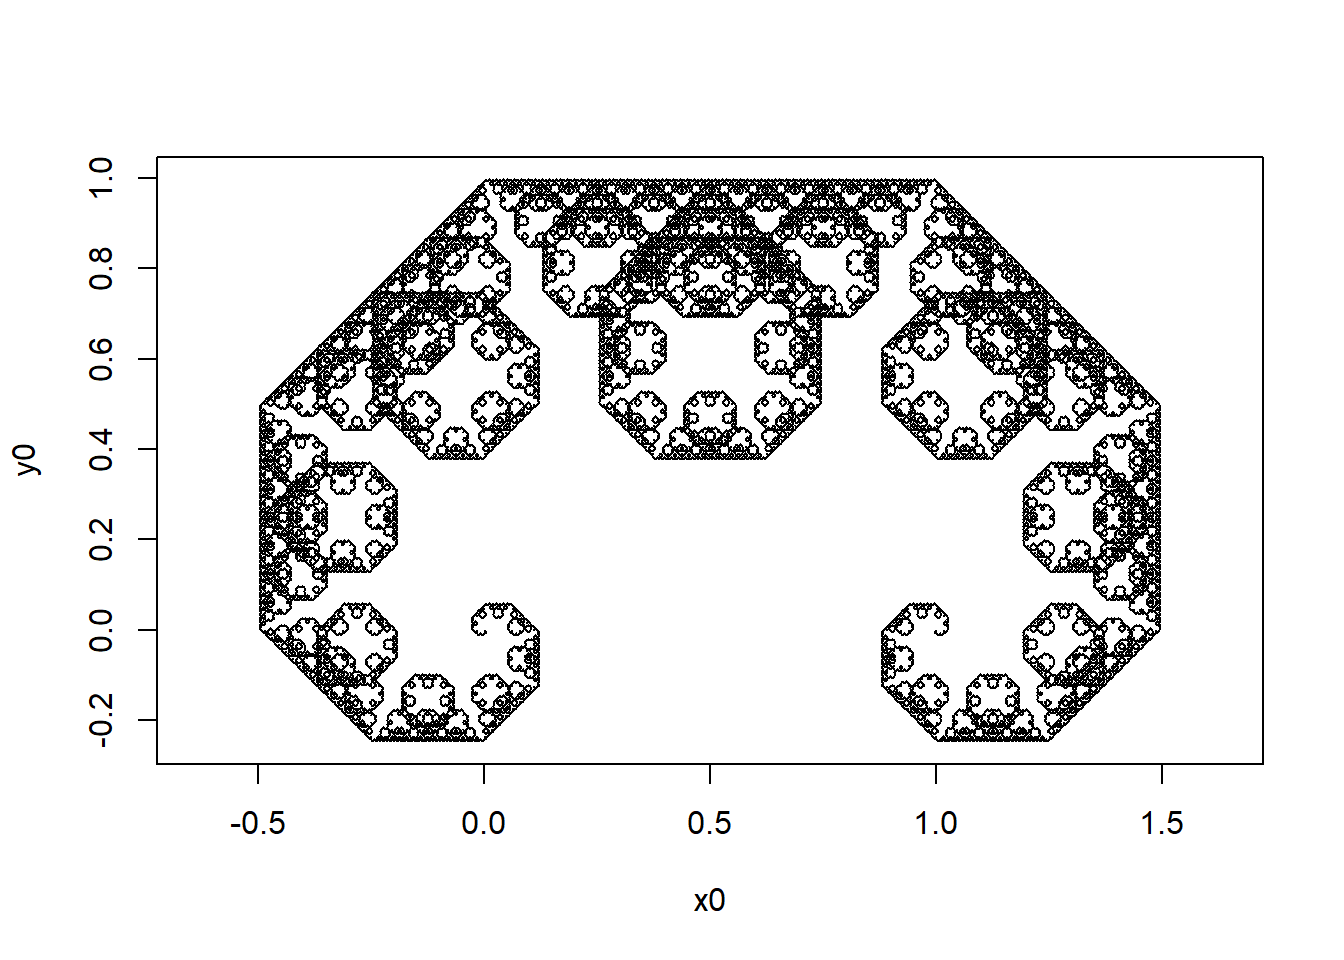
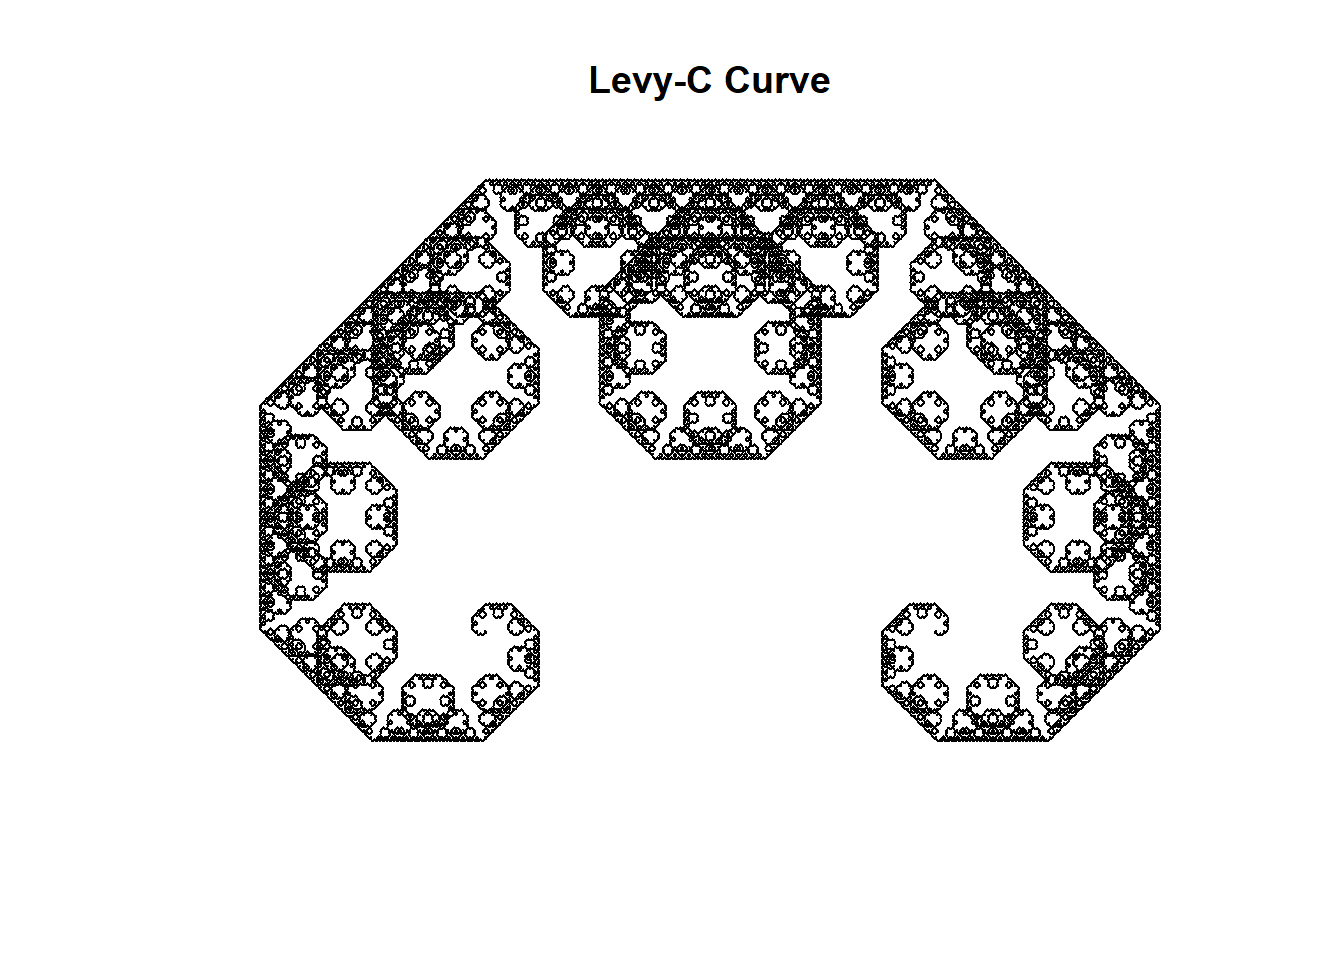
Expanded text and altered some headings

diff --git a/IFS_Fractals.html b/IFS_Fractals.html
@@ -7,7 +7,7 @@
 <meta name="viewport" content="width=device-width, initial-scale=1.0, user-scalable=yes">
 
 
-<title>Fractals</title>
+<title>Exploring Fractals: Part 1</title>
 <style>
 code{white-space: pre-wrap;}
 span.smallcaps{font-variant: small-caps;}
@@ -81,7 +81,7 @@ pre > code.sourceCode > span > a:first-child::before { text-decoration: underlin
 
 <header id="title-block-header" class="quarto-title-block default">
 <div class="quarto-title">
-<h1 class="title">Fractals</h1>
+<h1 class="title">Exploring Fractals: Part 1</h1>
 </div>
 
 
@@ -96,10 +96,15 @@ pre > code.sourceCode > span > a:first-child::before { text-decoration: underlin
 
 </header>
 
+<section id="introduction" class="level2">
+<h2 class="anchored" data-anchor-id="introduction">Introduction</h2>
+<p>I have long found fractals, a curve or figure where each part has the same character as the whole, to be an endlessly fascinating study. As I have been learning more of the R language, I decided to stretch my knowledge of R programming by creating varying fractal implementations in a Quarto notebook which are now shared here.</p>
+</section>
 <section id="barnsley-fern" class="level2">
 <h2 class="anchored" data-anchor-id="barnsley-fern">Barnsley Fern</h2>
-<p>From <a href="https://en.wikipedia.org/wiki/Barnsley_fern">Wikipedia</a>: The Barnsley fern is a fractal named after the British mathematician Michael Barnsley who first described it in his book <em>Fractals Everywhere</em>. The fern is a basic example of self-similar sets, a mathematical pattern that can be reproduced at any magnification and is also an example of an Iterated Function System.</p>
-<p>The fern uses four affine transformations, the formula for which is:</p>
+<p>Back around 2009 during my first year in undergraduate studies, I took a course on Python programming. Around the same time I encountered the Barnsley Fern in a textbook and thought to create a basic implementation of the fractal in Python. That code is long since gone, but the idea remained so the first fractal I chose to examine in this exploration was the same I explored during my early education.<br>
+From <a href="https://en.wikipedia.org/wiki/Barnsley_fern">Wikipedia</a>: The Barnsley fern is a fractal named after the British mathematician Michael Barnsley who first described it in his book <em>Fractals Everywhere</em>. The fern is a basic example of self-similar sets, a mathematical pattern that can be reproduced at any magnification. In addition, it is also an example of an <a href="https://en.wikipedia.org/wiki/Iterated_function_system">Iterated Function System</a> (IFS), a method of generating self-similar fractals popularized by Barnsley.</p>
+<p>The fern uses four <a href="https://en.wikipedia.org/wiki/Affine_transformation">affine transformations</a>, the formula for which is:</p>
 <p><span class="math display">\[
 f_w(x,y)=\left[\begin{array}{cc}
   a &amp; b \\
@@ -186,7 +191,7 @@ f_w(x,y)=\left[\begin{array}{cc}
 </table>
 </div>
 </div>
-<p>To plot 10,000 iterations were run and <code>ggplot2::geom_bin_2d</code> was used to bin the results and color the resulting simulation.</p>
+<p>To plot 100,000 iterations were run and <code>ggplot2::geom_bin_2d</code> was used to bin the results and color the resulting simulation.</p>
 <div class="cell">
 <details>
 <summary>Code</summary>
@@ -243,8 +248,8 @@ f_w(x,y)=\left[\begin{array}{cc}
 </section>
 <section id="binary-tree" class="level2">
 <h2 class="anchored" data-anchor-id="binary-tree">Binary Tree</h2>
-<p>An easy fractal to generate, the binary tree (or <a href="https://en.wikipedia.org/wiki/Fractal_canopy">fractal canopy</a>) is generated by: taking a line segment in as a matrix (first column x-coordinates, second y-coordinates), splits the end at plus and minus an angle, and grows a new branch r*length of the original branch.<br>
-I decided to explore this with both built in functionality and by creating a new class <code>BinaryBranch</code> and <code>BinaryTree</code> that keep information about the generation with the line segment as a new class. <code>BinaryTree</code> has an accompanying method to plot it.</p>
+<p>Moving the study further, another easy fractal to generate is the binary tree (or <a href="https://en.wikipedia.org/wiki/Fractal_canopy">fractal canopy</a>). This fractal is generated by taking a line segment and at the terminal point splitting off two new line segments that are both shorter than the original and depart at specific angles. In this implementation, the line segment is input as a matrix (first column x-coordinates, second y-coordinates), splits the end at plus and minus an angle, and grows a new branch <span class="math inline">\(r\times \text{length}\)</span> of the original branch.<br>
+I decided to explore this with both base R functionality and by creating a S4 class <code>BinaryBranch</code> and <code>BinaryTree</code> that keep information about the generation with the line segment as a new class. The <code>BinaryTree</code> class then has an accompanying method to plot it.</p>
 <section id="testing-out-class-system" class="level4">
 <h4 class="anchored" data-anchor-id="testing-out-class-system">Testing out class system</h4>
 <p>I defined two new classes: <code>BinaryBranch</code> stores the coordinates of the branch, generation of the branch, and the size of the tree while <code>BinaryTree</code> stores the entire tree as a list of branches.</p>
@@ -302,7 +307,7 @@ I decided to explore this with both built in functionality and by creating a new
 <section id="creating-a-tree-with-base-r" class="level4">
 <h4 class="anchored" data-anchor-id="creating-a-tree-with-base-r">Creating a tree with base R</h4>
 <p>In this section, I wanted to explore creating a tree with base R by creating a series of helper functions.</p>
-<p>First, the <code>branch</code> function takes a line segment, scale factor, and rotation amount and creates two new branches at plus and minus the rotation before outputting them as a list. Secondly, the <code>make_tree</code> function takes the trunk, number of generations, and same r and t and builds a tree with the specified number of generations from the trunk. This function also takes care of plotting the tree.</p>
+<p>First, the <code>branch</code> function takes a line segment, scale factor, and rotation amount and creates two new branches at plus and minus the rotation before outputting both new branches as a list. Secondly, the <code>make_tree</code> function takes the trunk, number of generations, and same scale factor and angle and builds a tree with the specified number of generations from the trunk. This function also takes care of plotting the tree.</p>
 <div class="cell">
 <details>
 <summary>Code</summary>
@@ -362,8 +367,8 @@ I decided to explore this with both built in functionality and by creating a new
 </section>
 <section id="creating-a-tree-with-custom-class" class="level4">
 <h4 class="anchored" data-anchor-id="creating-a-tree-with-custom-class">Creating a tree with custom class</h4>
-<p>This starts off by creating a <code>BinaryBranch</code> from the same trunk. The <code>branch</code> function was rewritten as <code>branchS4</code> to accept an object of <code>BinaryBranch</code> with the same functionality but it outputs a list of two new <code>BinaryBranch</code> objects.<br>
-Next, the <code>make_treesS4</code> function was adapted from <code>make_tree</code> function to accept the list of <code>BinaryBranch</code>es and create the whole tree. The tree is returned with class <code>BinaryTree</code> which I created the custom plot method for earlier, allowing plot to be directly called on the output of <code>make_treeS4</code>.</p>
+<p>This starts off by creating a <code>BinaryBranch</code> from the same trunk as the base R version. The <code>branch</code> function was rewritten as <code>branchS4</code> to accept an object of <code>BinaryBranch</code> with the same functionality but it outputs a list of two new <code>BinaryBranch</code> objects.<br>
+Next, the <code>make_treesS4</code> function was adapted from <code>make_tree</code> function to accept the list of <code>BinaryBranch</code>es and create the whole tree. The tree is returned with class <code>BinaryTree</code> for which the custom plot method was created earlier, allowing plot to be directly called on the output of <code>make_treeS4</code>.</p>
 <div class="cell">
 <details>
 <summary>Code</summary>
@@ -416,7 +421,7 @@ Next, the <code>make_treesS4</code> function was adapted from <code>make_tree</c
 </section>
 <section id="levy-c-curve" class="level2">
 <h2 class="anchored" data-anchor-id="levy-c-curve">Levy C curve</h2>
-<p>The Levy C curve can be generated with an IFS as implemented here or with an L-system method that will be explored in a further set of fractal simulations. In this fractal, each line segment (pair of points) is iteratively replaced with a 45 degree turn left, then 90 right along with a scaling of <span class="math inline">\(1/\sqrt{2}\)</span></p>
+<p>The Levy C curve can be generated with an IFS as implemented here or with an L-system method that will be explored in a further set of fractal simulations and is a nice bridge between these two generating techniques. In this fractal, each line segment (pair of points) is iteratively replaced with a <span class="math inline">\(45^{\circ}\)</span> degree turn left, then <span class="math inline">\(90^{\circ}\)</span> right along with a scaling of <span class="math inline">\(1/\sqrt{2}\)</span></p>
 <div class="cell">
 <details>
 <summary>Code</summary>
@@ -436,7 +441,11 @@ Next, the <code>make_treesS4</code> function was adapted from <code>make_tree</c
 <span id="cb6-14"><a href="#cb6-14" aria-hidden="true" tabindex="-1"></a>  }</span>
 <span id="cb6-15"><a href="#cb6-15" aria-hidden="true" tabindex="-1"></a>}</span>
 <span id="cb6-16"><a href="#cb6-16" aria-hidden="true" tabindex="-1"></a></span>
-<span id="cb6-17"><a href="#cb6-17" aria-hidden="true" tabindex="-1"></a><span class="fu">plot</span>(x0, y0, <span class="at">type =</span> <span class="st">"l"</span>, <span class="at">asp =</span> <span class="dv">1</span>)</span></code><button title="Copy to Clipboard" class="code-copy-button"><i class="bi"></i></button></pre></div>
+<span id="cb6-17"><a href="#cb6-17" aria-hidden="true" tabindex="-1"></a><span class="fu">plot</span>(x0, y0, <span class="at">type =</span> <span class="st">"l"</span>, <span class="at">asp =</span> <span class="dv">1</span>, </span>
+<span id="cb6-18"><a href="#cb6-18" aria-hidden="true" tabindex="-1"></a>     <span class="at">axes =</span> <span class="cn">FALSE</span>, </span>
+<span id="cb6-19"><a href="#cb6-19" aria-hidden="true" tabindex="-1"></a>     <span class="at">xlab =</span> <span class="st">""</span>, </span>
+<span id="cb6-20"><a href="#cb6-20" aria-hidden="true" tabindex="-1"></a>     <span class="at">ylab =</span> <span class="st">""</span></span>
+<span id="cb6-21"><a href="#cb6-21" aria-hidden="true" tabindex="-1"></a>     , <span class="at">main =</span> <span class="st">"Levy-C Curve"</span>)</span></code><button title="Copy to Clipboard" class="code-copy-button"><i class="bi"></i></button></pre></div>
 </details>
 <div class="cell-output-display">
 <p><img src="IFS_Fractals_files/figure-html/LevyC-1.png" class="img-fluid" width="672"></p>
@@ -448,8 +457,8 @@ Next, the <code>make_treesS4</code> function was adapted from <code>make_tree</c
 <p>From <a href="https://en.wikipedia.org/wiki/L-system">Wikipedia</a>: an l-system consists of an alphabet of symbols that can be used to make strings, a set of production rules that expand each symbol into a larger string of symbols, an initial axiom string, and a mechanism for translating the strings into geometric structures. They describe the behavior of plant cells and model growth processes of plant development.<br>
 Here I’ve created a basic L-system process that takes a given curve that is a list of an axiom, rules, angle, generations, and initial angle and generates the whole string that is then plotted. The two here have four symbols: L, R, +, and -.</p>
 <ul>
-<li><strong>L</strong>: Go foward 1 unit</li>
-<li><strong>R</strong>: Go forward 1 unit</li>
+<li><strong>L</strong>: Go forward 1 unit, drawing a line</li>
+<li><strong>R</strong>: Go forward 1 unit, drawing a line</li>
 <li><strong>+</strong>: turn right by angle, don’t move from point</li>
 <li><strong>-</strong>: turn left by angle, don’t move from point</li>
 </ul>
